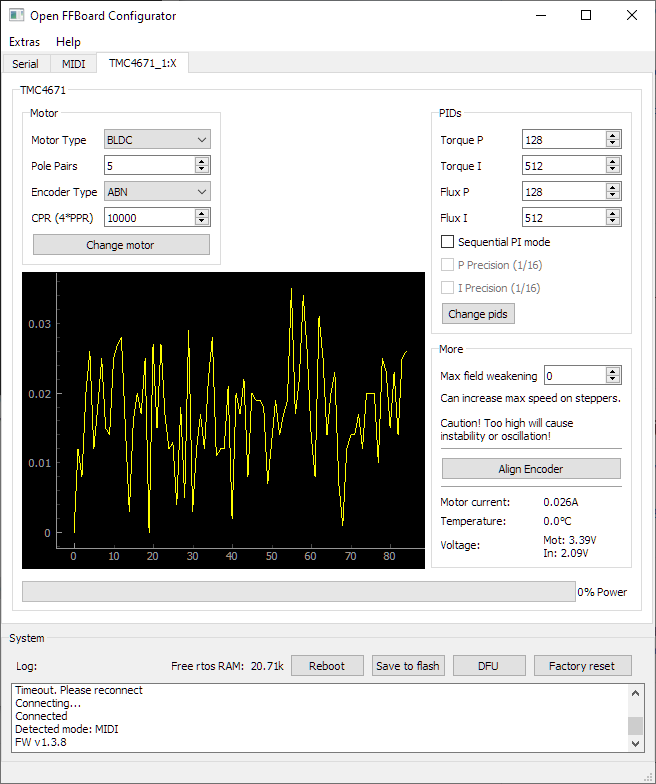
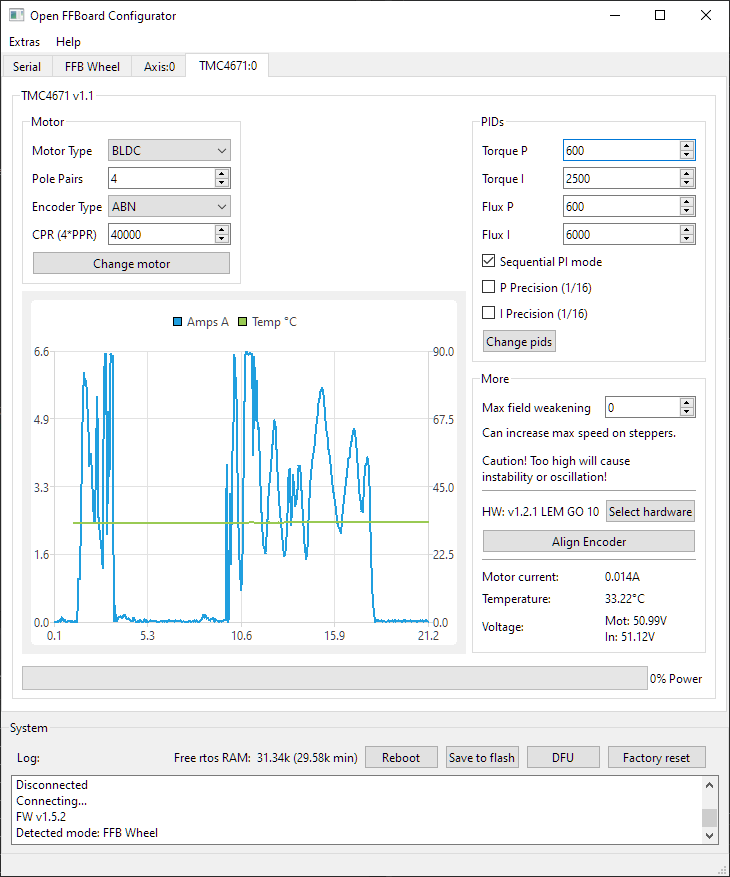
Update screenshots

diff --git a/README.md b/README.md
@@ -12,7 +12,7 @@ Be very careful when changing motor types, drivers or the power value.
 Incorrect settings may cause unintended movements or damage hardware.
 
 
-On older windows versions CDC drivers may not load automatically.
+On older windows versions (older than Windows 10) CDC drivers may not load automatically.
 
 Then you need to manually install for example the STM VCP driver for the device. (We will provide an installer later)
 
@@ -22,11 +22,15 @@ Then you need to manually install for example the STM VCP driver for the device.
 
 ![Axis Window](screenshots/Axispage.png?raw=true)
 
+
+![TMC Window](screenshots/TMC.png?raw=true)
+
 Dependencies:
 
 PyQt6
-pyqtgraph (For TMC graph)
+PyQt6-Charts (For TMC graph)
 pyusb and libusb-1.0.dll for DFU
 intelhex for uploading hex files
 
 Install dependencies with `pip install -r requirements.txt` and run `python main.py` to start the application.
+A fully executable windows version can be built using pyinstaller and the `build/build.bat` script.
